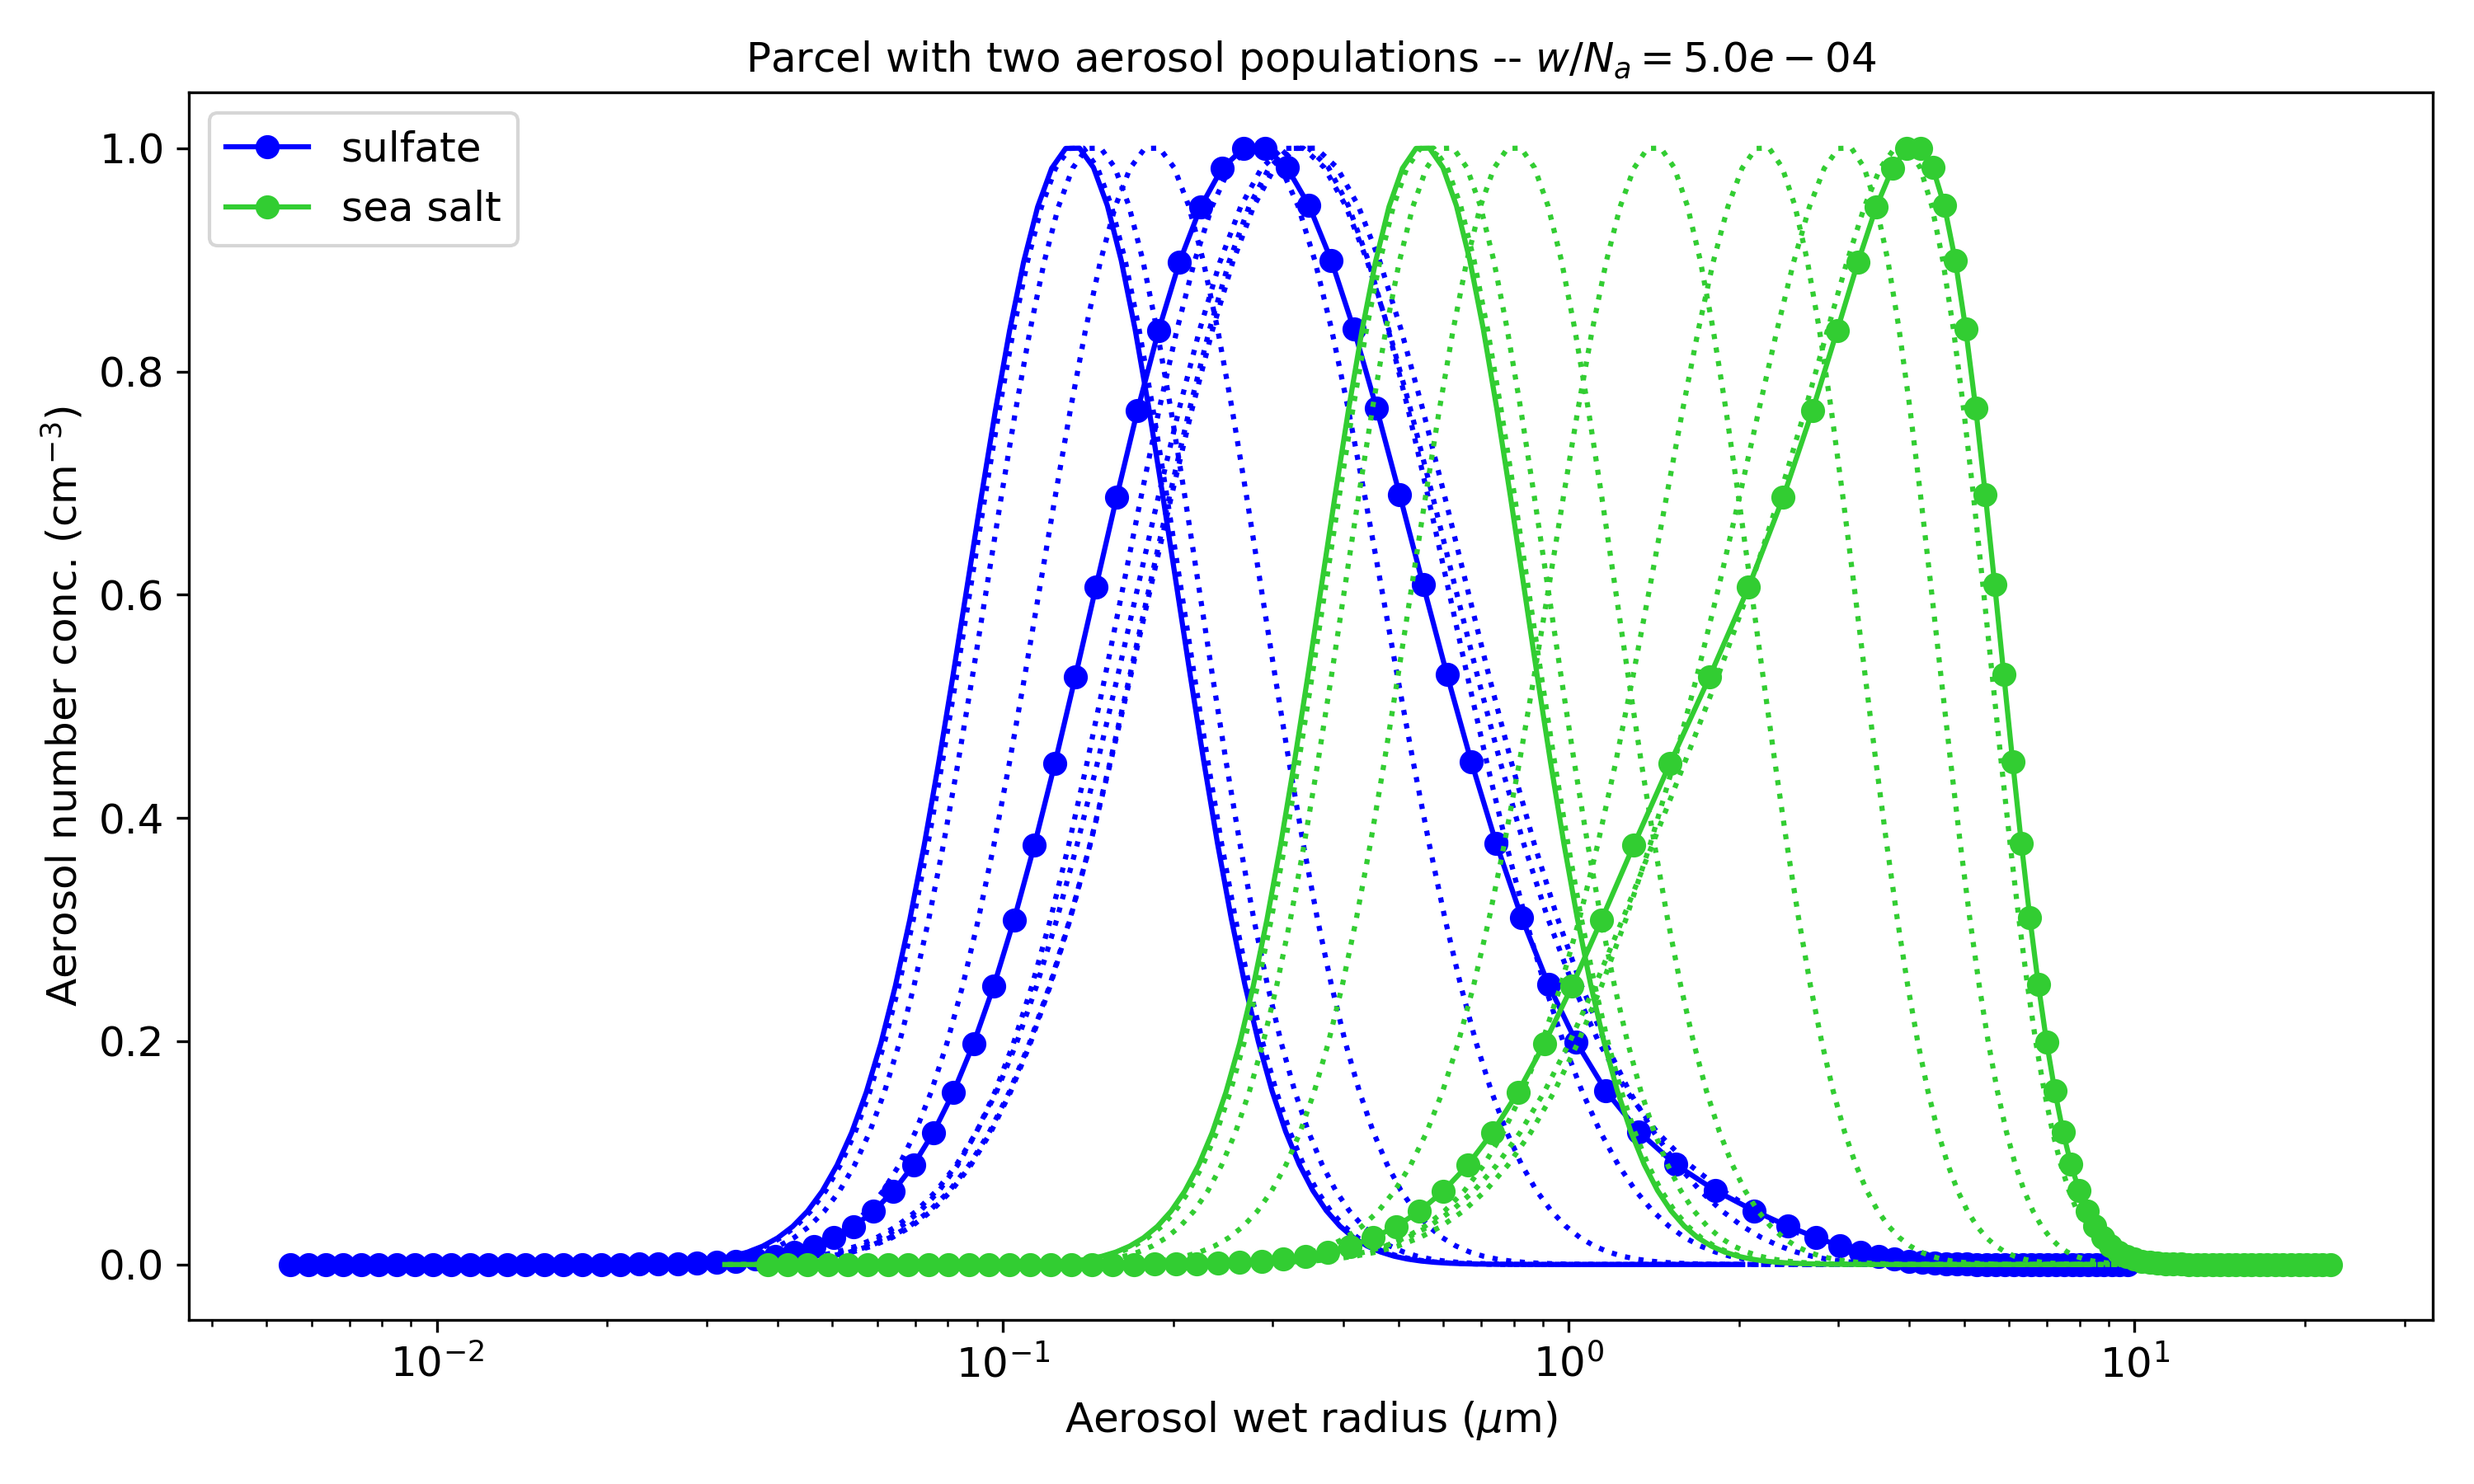
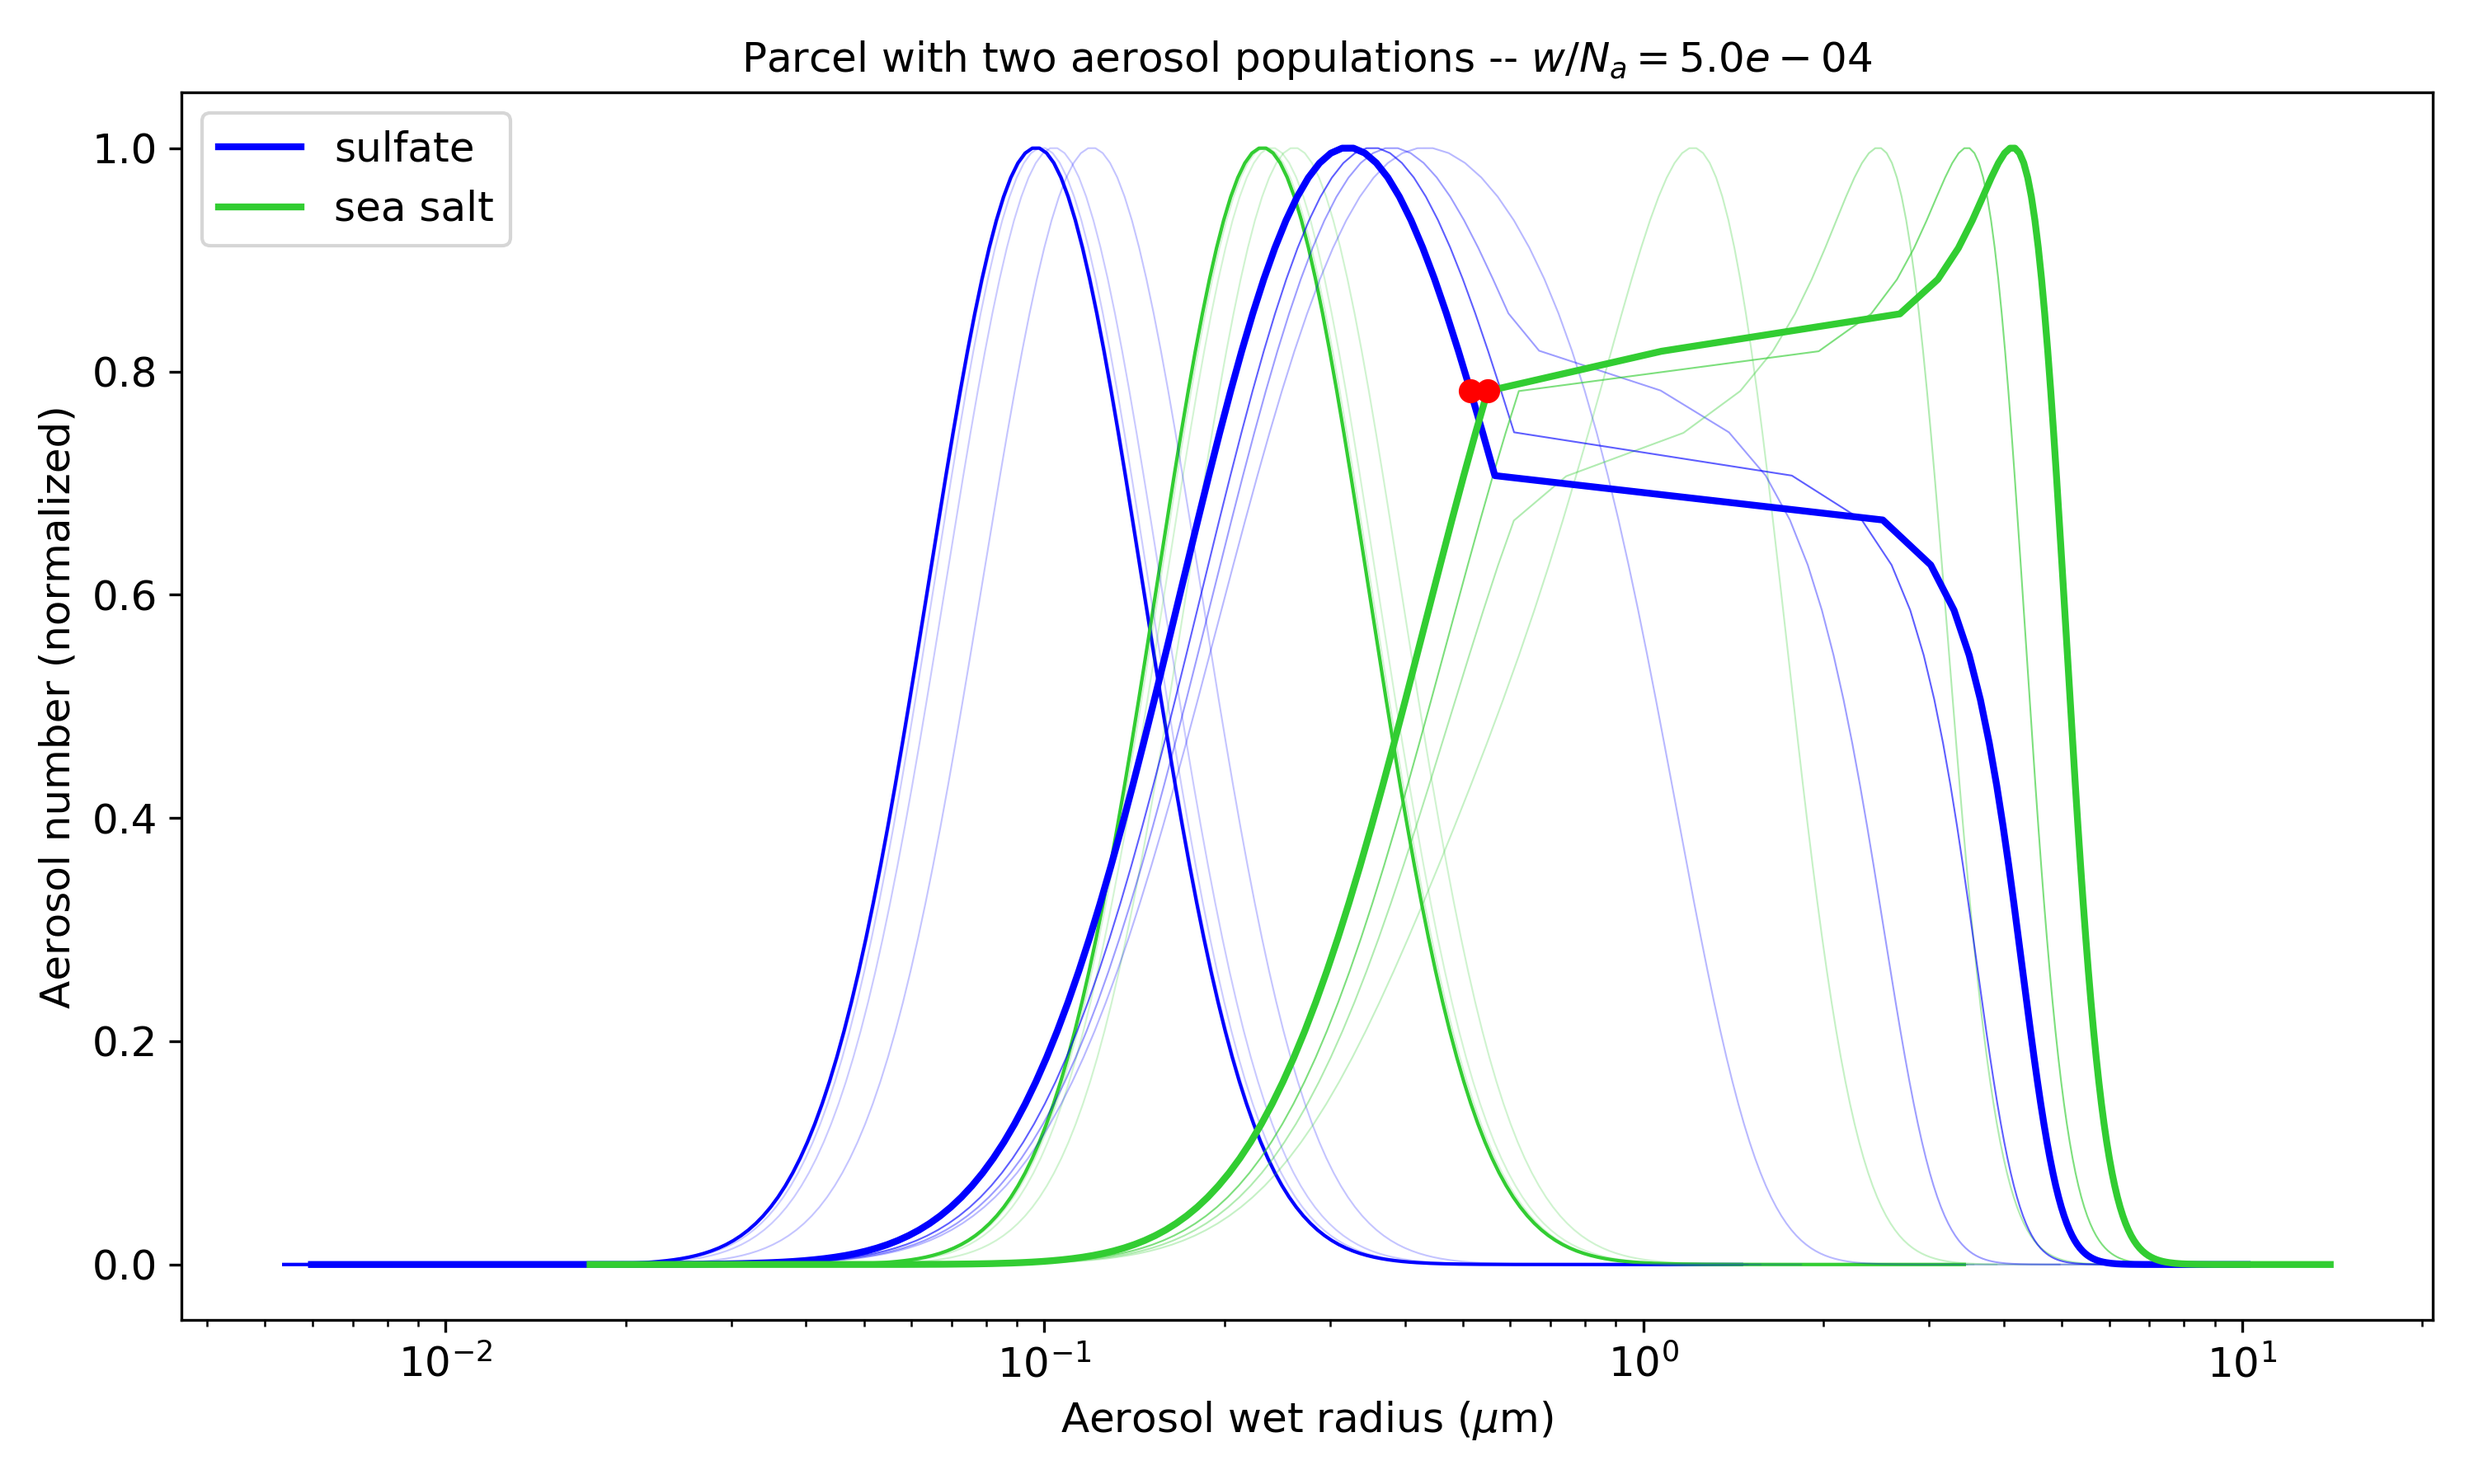
quantify and plot growth rates

diff --git a/clare/aerosol_plots.py b/clare/aerosol_plots.py
@@ -127,33 +127,67 @@ def dist_ev(w,Na,Ni,aer_array):
 def dist_int(w,Na,Ni,aer_array,name):
     plt.figure(figsize=(10,6))
     fs = 12
-
-    npop = len(aer_array)
-    #col = list(np.random.choice(range(256), size=(npop,3))/256.)
     col = ['blue','limegreen','gold','red','azure','pink']
+    
+    npop = len(aer_array)
+    endt = np.shape(aer_array[0])[0]
+    tlist = np.geomspace(1,endt,9,endpoint=True).astype(int)-1
 
-    maxN = np.max(Ni)
-    for i in np.arange(npop):
-        N = Ni[i]
-        arr = aer_array[i]
+    for t in tlist:
+        x = clc.calc_int(aer_array[0],aer_array[1],t,Ni)
+        [intr0,intr1] = x
+        #print(t,intr0,intr1)
 
-        endt = np.shape(arr)[0]
-        tlist = np.geomspace(1,endt,9,endpoint=True).astype(int)-1
-
-        for t in tlist:
+        for i in np.arange(npop):
+            N = Ni[i]
+            maxN = np.max(N)
+            arr = aer_array[i]
             r = arr[t,:]
+            
             if t == tlist[-1]:
-                plt.semilogx(r*1e6, N/maxN, '-', marker='o', color=col[i], label=name[i])
+                plt.semilogx(r*1e6, N/maxN, '-', lw=2, color=col[i], label=name[i])
+                if i == 0:
+                    plt.semilogx(r[intr0]*1e6, N[intr0]/maxN, 'ro')
+                if i == 1:
+                    plt.semilogx(r[intr1]*1e6, N[intr1]/maxN, 'ro')
             elif t == tlist[0]:
-                plt.semilogx(r*1e6, N/maxN, '-', color=col[i])
+                plt.semilogx(r*1e6, N/maxN, '-', color=col[i], lw=1)
             else:
-                plt.semilogx(r*1e6, N/maxN, ':', color=col[i])
+                al = 0.2+t/tlist[-1]
+                plt.semilogx(r*1e6, N/maxN, '-', color=col[i], alpha=al, lw=0.5)
     
     plt.title("Parcel with two aerosol populations -- $w/N_a = {:.1e}$".format(w/Na),fontsize=fs)
     plt.xlabel(r"Aerosol wet radius ($\mu$m)",fontsize=fs)
-    plt.ylabel(r"Aerosol number conc. (cm$^{-3})$",fontsize=fs)
+    plt.ylabel(r"Aerosol number (normalized)",fontsize=fs)
     plt.xticks(fontsize=fs)
     plt.yticks(fontsize=fs)
     plt.legend(loc='upper left',fontsize=fs)
     plt.tight_layout()
-    plt.savefig("sulfate_seasalt.png",dpi=300)
+    
+    savename = "sulfate_seasalt.png"
+    plt.savefig(savename, dpi=300)
+
+def dist_compete(w,Na,Ni,aer_array,name):
+    plt.figure(figsize=(10,6))
+    fs = 12
+    col = ['blue','limegreen','gold','red','azure','pink']
+    
+    npop = len(aer_array)
+    endt = np.shape(aer_array[0])[0]
+
+    for i in np.arange(npop):
+        v = clc.calc_tot_vol(aer_array[i],Ni[i])
+        grow = np.diff(v)/v[0:-1]
+        plt.loglog(np.arange(1,endt),grow*100.0,'-',color=col[i],label=name[i])
+
+    plt.title("Parcel with two aerosol populations -- $w/N_a = {:.1e}$".format(w/Na),fontsize=fs)
+    plt.xlabel(r"Time (s)",fontsize=fs)
+    plt.ylabel(r"Percentage change in population volume ($\Delta V/V$)",fontsize=fs)
+    plt.xticks(fontsize=fs)
+    plt.yticks((0.1,1,10),('0.1%','1%','10%'),fontsize=fs)
+    plt.legend(loc='upper left',fontsize=fs)
+    plt.tight_layout()
+    #plt.xlim((0,200))
+    
+    savename = "growth_rates.png"
+    plt.savefig(savename, dpi=300)

diff --git a/clare/dist_interact.py b/clare/dist_interact.py
@@ -11,7 +11,7 @@ import matplotlib.pyplot as plt
 # environmental variables
 P0 = 1e5 # Initial Pressure, Pa
 T0 = 280.   # Initial Temperature, K
-S0 = -0.05  # Initial Supersaturation, 1-RH (95% here)
+S0 = -0.15  # Initial Supersaturation, 1-RH (85% here)
 
 # regime-determining variables
 w = 6.0 # updraft velocity (m/s)
@@ -20,7 +20,7 @@ N = w*2.0e3 # total particle number
 # initial lognormal distribution variables
 # shared variables
 sig = 1.5 # geometric standard deviation
-bins = 100 # number of bins to track (maybe choose this in relation to sigma)
+bins = 200 # number of bins to track (maybe choose this in relation to sigma)
 
 # aer1 = ammonium sulfate aerosol (Chen, 2018)
 name1 = 'sulfate'
@@ -31,13 +31,13 @@ sulf = pm.AerosolSpecies(name1, pm.Lognorm(mu=mu1, sigma=sig, N=N), kappa=kappa1
 # aer2 = sea salt aerosol (Zieger, 2017)
 name2 = 'sea salt'
 mu2 = 0.2 # mean (um)
-kappa2 = 1.1 # hygroscopicity
+kappa2 = 0.1 # hygroscopicity, 1.1
 ss = pm.AerosolSpecies(name2, pm.Lognorm(mu=mu2, sigma=sig, N=N), kappa=kappa2, bins=bins)
 
 initial_aerosols = [sulf, ss]
 
 dt = 1.0 # timestep (s)
-h_end = 10 # end altitude (km)
+h_end = 5e0 # end altitude (km)
 t_end = h_end*1e3/w # end time (s)
 
 model = pm.ParcelModel(initial_aerosols, w, T0, S0, P0, console=False, accom=0.5)
@@ -46,3 +46,4 @@ sulf_arr = aerosol_traces[name1].values
 ss_arr = aerosol_traces[name2].values
 
 aerplt.dist_int(w, N, [sulf.Nis,ss.Nis], [sulf_arr,ss_arr], [name1,name2])
+aerplt.dist_compete(w, N, [sulf.Nis,ss.Nis], [sulf_arr,ss_arr], [name1,name2])

diff --git a/clare/calculations.py b/clare/calculations.py
@@ -11,7 +11,7 @@ def calc_eps(r,N):
     x = np.abs(N - maxN/2)
     hmi = np.concatenate((np.where(x == sorted(x)[0]), np.where(x == sorted(x)[1]))).flatten()
     hmR = r[hmi]
-    hmN = np.ones(len(hmR))*maxN/2
+    #hmN = np.ones(len(hmR))*maxN/2
    
     # don't plot
     # plt.figure(figsize=(8,6))
@@ -27,3 +27,29 @@ def calc_eps(r,N):
     eps = fwhm/mu
     
     return(eps)
+
+def calc_int(rx,ry,t,Ni):
+    if rx[t,0] < ry[t,0]:
+        r1, r2 = rx, ry 
+    else:
+        r1, r2 = ry, rx
+    intr1 = np.argwhere(np.diff(np.sign(r1[t,:] - np.flip(r2[t,:])))).flatten()[0]
+    intr2 = np.argwhere(np.diff(np.sign(np.flip(r1[t,:]) - r2[t,:]))).flatten()[0] + 1
+    
+    n1 = np.sum(Ni[0][intr1:-1])
+    n2 = np.sum(Ni[1][0:intr2])
+    
+    v1 = np.sum((4*np.pi/3)*1e18*(r1[t,intr1:-1])**3*(Ni[0][intr1:-1]))
+    v2 = np.sum((4*np.pi/3)*1e18*(r2[t,0:intr2])**3*(Ni[1][0:intr2]))
+
+    print(t,n1,n2,v1,v2)
+
+    if rx[t,0] < ry[t,0]:
+        x = [intr1,intr2]
+    else:
+        x = [intr2,intr1]
+    return(x)
+
+def calc_tot_vol(r,N):
+    v = np.sum((4*np.pi/3)*1e18*r**3*N,axis=1)
+    return(v)
